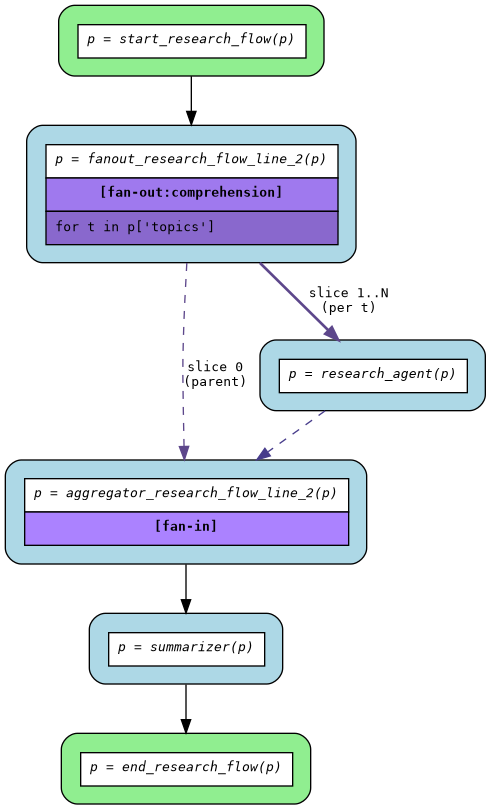
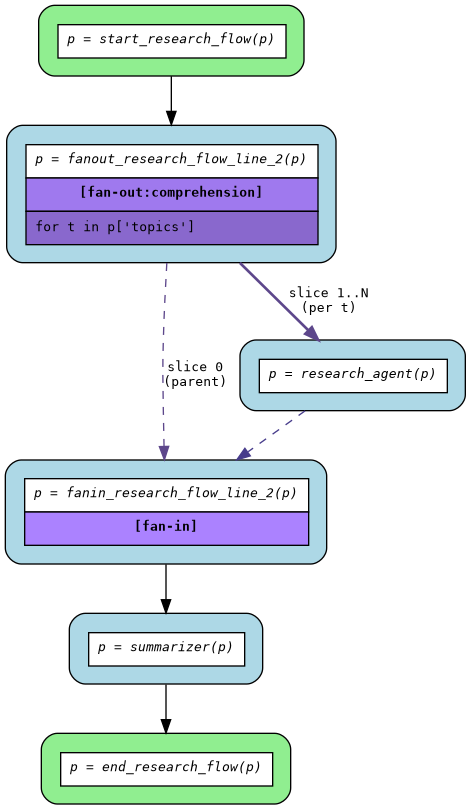
Rename fan-out generated actor from aggregator to fanin
Renames the generated fan-in actor from `aggregator_` to `fanin_` prefix
across all source and test files. This improves clarity as "fan-in" better
describes the aggregation pattern.

Changes:
- Regenerated all compiled flows with new `fanin_` prefix
- Updated test assertions to use `fanin_` instead of `aggregator_`
- Updated test function names for clarity
- All 538 unit tests pass

diff --git a/src/asya-cli/tests/flow/test_fanout_codegen.py b/src/asya-cli/tests/flow/test_fanout_codegen.py
@@ -8,6 +8,7 @@ import os
 import tempfile
 import textwrap
 from contextlib import contextmanager
+from typing import Any
 
 import pytest
 from asya_cli.flow.codegen import CodeGenerator
@@ -80,7 +81,7 @@ def _vfs_tmpdir(msg_id: str, route_next: list[str] | None = None, headers: dict 
         if headers:
             for k, v in headers.items():
                 with open(os.path.join(headers_dir, k), "w") as f:
-                    if isinstance(v, (dict, list)):
+                    if isinstance(v, dict | list):
                         f.write(json.dumps(v))
                     else:
                         f.write(str(v))
@@ -103,7 +104,7 @@ def _read_vfs_route_next(tmpdir: str) -> list[str]:
     return content.splitlines() if content else []
 
 
-def _read_vfs_header(tmpdir: str, name: str) -> dict | str:
+def _read_vfs_header(tmpdir: str, name: str) -> dict[str, Any] | str:
     """Read a header from VFS tmpdir, parsing JSON if possible."""
     path = os.path.join(tmpdir, "headers", name)
     with open(path) as f:
@@ -586,8 +587,8 @@ class TestFanOutCodeExecution:
         assert parent_payload == input_payload
         assert parent_payload is not input_payload
 
-    def test_parent_vfs_route_points_to_aggregator(self):
-        """After yielding index 0, VFS route/next should point to the generated aggregator."""
+    def test_parent_vfs_route_points_to_fanin(self):
+        """After yielding index 0, VFS route/next should point to the generated fan-in."""
         ops = [_make_fanout_op(), ActorCall(lineno=6, name="formatter"), Return(lineno=7)]
         code = _generate_code_for_ops("flow", ops)
         actor_map = {
@@ -604,7 +605,7 @@ class TestFanOutCodeExecution:
             next(gen)  # yield parent
 
             route_next = _read_vfs_route_next(tmpdir)
-            assert route_next[0] == "aggregator-flow-line-5"
+            assert route_next[0] == "fanin-flow-line-5"
             assert "downstream" in route_next
 
     def test_parent_vfs_fan_in_header_slice_index_0(self):
@@ -625,10 +626,11 @@ class TestFanOutCodeExecution:
             next(gen)  # yield parent
 
             fan_in = _read_vfs_header(tmpdir, "x-asya-fan-in")
+            assert isinstance(fan_in, dict)
             assert fan_in["slice_index"] == 0
 
-    def test_slice_vfs_route_points_to_actor_then_aggregator(self):
-        """After yielding a slice, VFS route/next should be [sub_agent, generated_aggregator]."""
+    def test_slice_vfs_route_points_to_actor_then_fanin(self):
+        """After yielding a slice, VFS route/next should be [sub_agent, generated_fanin]."""
         ops = [_make_fanout_op(), ActorCall(lineno=6, name="formatter"), Return(lineno=7)]
         code = _generate_code_for_ops("flow", ops)
         actor_map = {
@@ -646,7 +648,7 @@ class TestFanOutCodeExecution:
             next(gen)  # yield first slice
 
             route_next = _read_vfs_route_next(tmpdir)
-            assert route_next == ["research-agent", "aggregator-flow-line-5"]
+            assert route_next == ["research-agent", "fanin-flow-line-5"]
 
     def test_slice_vfs_fan_in_header_increasing_indices(self):
         """Slice yields should have increasing slice_index in VFS."""
@@ -667,6 +669,7 @@ class TestFanOutCodeExecution:
             indices = []
             for _ in gen:
                 fan_in = _read_vfs_header(tmpdir, "x-asya-fan-in")
+                assert isinstance(fan_in, dict)
                 indices.append(fan_in["slice_index"])
 
             assert indices == [0, 1, 2]
@@ -689,6 +692,7 @@ class TestFanOutCodeExecution:
             slice_counts = set()
             for _ in fanout_fn({"topics": ["a", "b", "c"]}):
                 fan_in = _read_vfs_header(tmpdir, "x-asya-fan-in")
+                assert isinstance(fan_in, dict)
                 slice_counts.add(fan_in["slice_count"])
 
             assert slice_counts == {4}  # 1 parent + 3 slices
@@ -709,6 +713,7 @@ class TestFanOutCodeExecution:
 
             for _ in fanout_fn({"topics": ["a"]}):
                 fan_in = _read_vfs_header(tmpdir, "x-asya-fan-in")
+                assert isinstance(fan_in, dict)
                 assert fan_in["aggregation_key"] == "/results"
 
     def test_fan_in_header_origin_id(self):
@@ -728,6 +733,7 @@ class TestFanOutCodeExecution:
 
             for _ in fanout_fn({"topics": ["a"]}):
                 fan_in = _read_vfs_header(tmpdir, "x-asya-fan-in")
+                assert isinstance(fan_in, dict)
                 assert fan_in["origin_id"] == "my-origin-id-123"
 
     def test_slice_payloads_are_individual_items(self):
@@ -836,13 +842,13 @@ class TestFanOutIntegration:
         except SyntaxError as e:
             pytest.fail(f"Compilation failed: {e}")
 
-    def test_fanout_no_resolve_aggregator(self):
+    def test_fanout_no_resolve_fanin(self):
         code = self._compile_flow("""
             def flow(p: dict) -> dict:
                 p["results"] = [research_agent(t) for t in p["topics"]]
                 return p
         """)
-        assert "_resolve_aggregator" not in code
+        assert "_resolve_fanin" not in code
 
     def test_two_fanouts_share_one_json_import(self):
         code = self._compile_flow("""

diff --git a/src/asya-cli/tests/flow/test_fanout_dotgen.py b/src/asya-cli/tests/flow/test_fanout_dotgen.py
@@ -104,8 +104,8 @@ class TestFanOutNodeRendering:
         nodes = _extract_nodes(dot)
         assert "research_agent" in nodes, f"Expected research_agent in nodes, got: {nodes}"
 
-    def test_aggregator_appears_as_user_actor_node(self):
-        """The generated aggregator should appear with fan-in label."""
+    def test_fanin_appears_as_user_actor_node(self):
+        """The generated fan-in should appear with fan-in label."""
         ops = [
             _make_fanout_op(),
             ActorCall(lineno=6, name="formatter"),
@@ -115,7 +115,7 @@ class TestFanOutNodeRendering:
 
         nodes = _extract_nodes(dot)
         assert "formatter" in nodes, f"Expected formatter node, got: {nodes}"
-        assert "fan-in" in dot.lower(), "Generated aggregator should have fan-in label"
+        assert "fan-in" in dot.lower(), "Generated fan-in should have fan-in label"
 
     def test_start_and_end_nodes_present(self):
         """Start and end nodes should always be present."""
@@ -152,8 +152,8 @@ class TestFanOutEdgeRendering:
         fanout_to_research = any(e[0] in fanout_nodes and e[1] == "research_agent" for e in edges)
         assert fanout_to_research, f"Expected fanout -> research_agent edge, edges: {edges}"
 
-    def test_fanout_to_aggregator_edge_exists(self):
-        """Fan-out router should have an edge to the generated aggregator (parent slice)."""
+    def test_fanout_to_fanin_edge_exists(self):
+        """Fan-out router should have an edge to the generated fan-in (parent slice)."""
         ops = [
             _make_fanout_op(),
             ActorCall(lineno=6, name="formatter"),
@@ -164,11 +164,11 @@ class TestFanOutEdgeRendering:
         edges = _extract_edges(dot)
         fanout_nodes = {n for n in {e[0] for e in edges} if "fanout" in n.lower()}
 
-        fanout_to_agg = any(e[0] in fanout_nodes and e[1].startswith("aggregator_flow_line") for e in edges)
-        assert fanout_to_agg, f"Expected fanout -> aggregator_flow_line_5 edge, edges: {edges}"
+        fanout_to_agg = any(e[0] in fanout_nodes and e[1].startswith("fanin_flow_line") for e in edges)
+        assert fanout_to_agg, f"Expected fanout -> fanin_flow_line_5 edge, edges: {edges}"
 
-    def test_sub_agent_to_aggregator_convergence_edge(self):
-        """Sub-agent should have a convergence edge back to the generated aggregator."""
+    def test_sub_agent_to_fanin_convergence_edge(self):
+        """Sub-agent should have a convergence edge back to the generated fan-in."""
         ops = [
             _make_fanout_op(),
             ActorCall(lineno=6, name="formatter"),
@@ -177,8 +177,8 @@ class TestFanOutEdgeRendering:
         dot = _generate_dot_for_ops("flow", ops)
 
         edges = _extract_edges(dot)
-        sub_agent_to_agg = ("research_agent", "aggregator_flow_line_5") in edges
-        assert sub_agent_to_agg, f"Expected research_agent -> aggregator_flow_line_5 edge, edges: {edges}"
+        sub_agent_to_agg = ("research_agent", "fanin_flow_line_5") in edges
+        assert sub_agent_to_agg, f"Expected research_agent -> fanin_flow_line_5 edge, edges: {edges}"
 
     def test_literal_fanout_edges_for_each_sub_agent(self):
         """Literal fan-out should have edges from fanout router to each unique sub-agent."""

diff --git a/examples/flows/compiled/fanout_sequential/routers.py b/examples/flows/compiled/fanout_sequential/routers.py
@@ -38,7 +38,7 @@ def fanout_multi_stage_flow_line_12(payload: dict):
     with open(f"{_MSG_ROOT}/route/next") as _f:
         _next_tail = _f.read().splitlines()
 
-    _agg = resolve("aggregator_multi_stage_flow_line_12")
+    _agg = resolve("fanin_multi_stage_flow_line_12")
 
     # Accumulate (actor_name, slice_payload) pairs
     _slices = []
@@ -78,7 +78,7 @@ def fanout_multi_stage_flow_line_11(payload: dict):
     with open(f"{_MSG_ROOT}/route/next") as _f:
         _next_tail = _f.read().splitlines()
 
-    _agg = resolve("aggregator_multi_stage_flow_line_11")
+    _agg = resolve("fanin_multi_stage_flow_line_11")
 
     # Accumulate (actor_name, slice_payload) pairs
     _slices = []

diff --git a/examples/flows/compiled/fanout_gather/routers.py b/examples/flows/compiled/fanout_gather/routers.py
@@ -39,7 +39,7 @@ def fanout_async_research_flow_line_11(payload: dict):
     with open(f"{_MSG_ROOT}/route/next") as _f:
         _next_tail = _f.read().splitlines()
 
-    _agg = resolve("aggregator_async_research_flow_line_11")
+    _agg = resolve("fanin_async_research_flow_line_11")
 
     # Accumulate (actor_name, slice_payload) pairs
     _slices = []

diff --git a/examples/flows/compiled/fanout_comprehension/routers.py b/examples/flows/compiled/fanout_comprehension/routers.py
@@ -39,7 +39,7 @@ def fanout_research_flow_line_11(payload: dict):
     with open(f"{_MSG_ROOT}/route/next") as _f:
         _next_tail = _f.read().splitlines()
 
-    _agg = resolve("aggregator_research_flow_line_11")
+    _agg = resolve("fanin_research_flow_line_11")
 
     # Accumulate (actor_name, slice_payload) pairs
     _slices = []

diff --git a/examples/flows/compiled/fanout_conditional/routers.py b/examples/flows/compiled/fanout_conditional/routers.py
@@ -39,7 +39,7 @@ def fanout_adaptive_flow_line_13(payload: dict):
     with open(f"{_MSG_ROOT}/route/next") as _f:
         _next_tail = _f.read().splitlines()
 
-    _agg = resolve("aggregator_adaptive_flow_line_13")
+    _agg = resolve("fanin_adaptive_flow_line_13")
 
     # Accumulate (actor_name, slice_payload) pairs
     _slices = []

diff --git a/examples/flows/compiled/fanout_literal/routers.py b/examples/flows/compiled/fanout_literal/routers.py
@@ -38,7 +38,7 @@ def fanout_analysis_flow_line_10(payload: dict):
     with open(f"{_MSG_ROOT}/route/next") as _f:
         _next_tail = _f.read().splitlines()
 
-    _agg = resolve("aggregator_analysis_flow_line_10")
+    _agg = resolve("fanin_analysis_flow_line_10")
 
     # Accumulate (actor_name, slice_payload) pairs
     _slices = []

diff --git a/src/asya-testing/asya_testing/flows/research_flow/compiled/routers.py b/src/asya-testing/asya_testing/flows/research_flow/compiled/routers.py
@@ -38,7 +38,7 @@ def fanout_research_flow_line_2(payload: dict):
     with open(f"{_MSG_ROOT}/route/next") as _f:
         _next_tail = _f.read().splitlines()
 
-    _agg = resolve("aggregator_research_flow_line_2")
+    _agg = resolve("fanin_research_flow_line_2")
 
     # Accumulate (actor_name, slice_payload) pairs
     _slices = []
